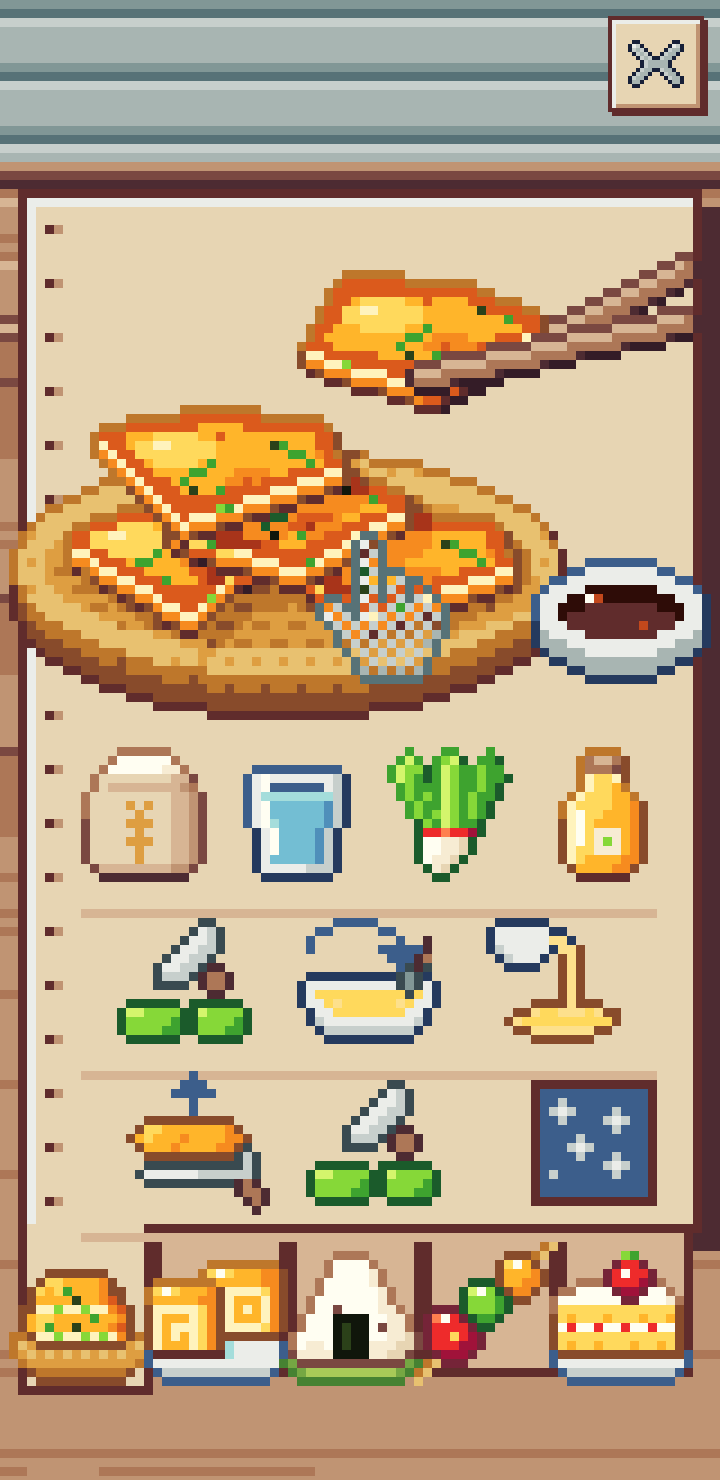
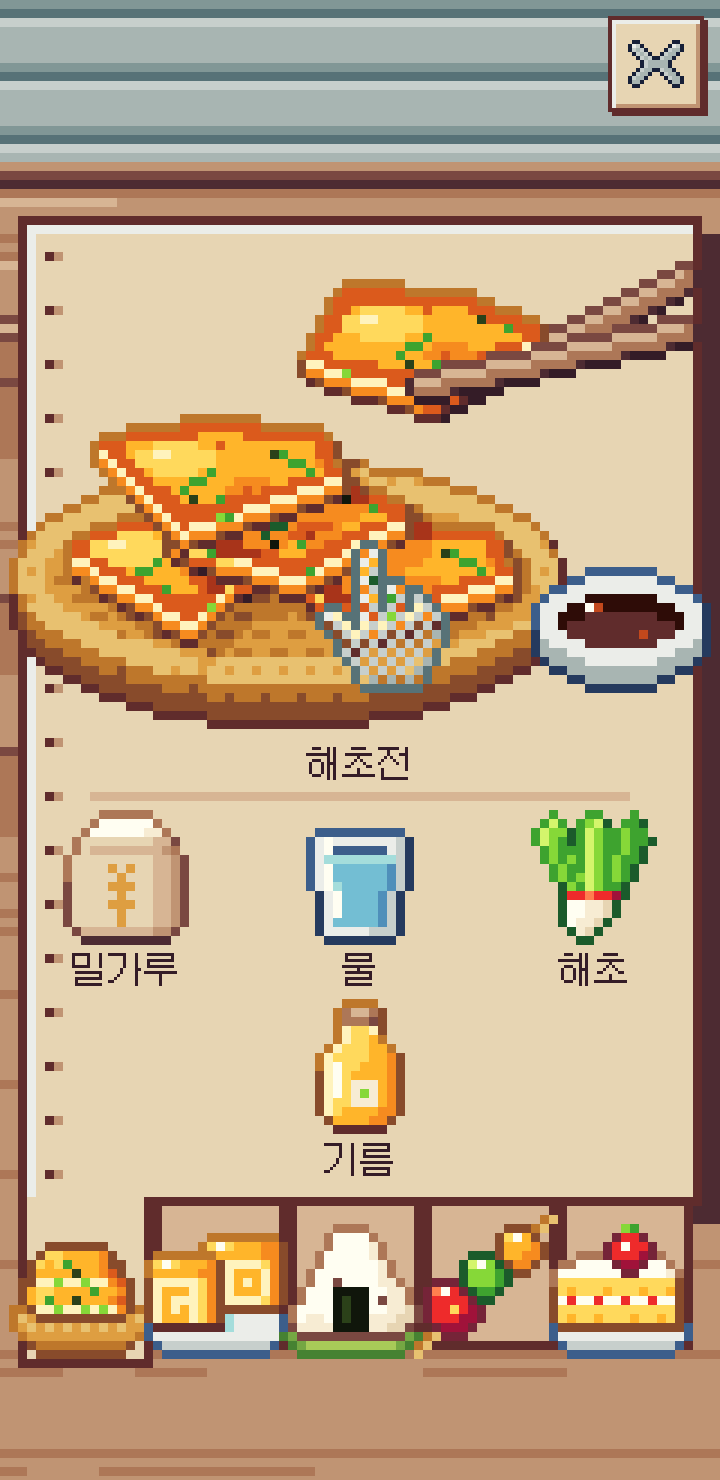
7차 다섯째 바퀴: 갈래 K — 요리 수첩에서 과정 (젓기 · 깨기 같은 단계 그림 · 순서 · 그날 효과 그림) 을 빼고 완성 그림 · 이름 · 재료만 (f88cabb)
주인 11-24: "레시피 북도 막 젓고 깨고 이런 과정은 싹 다 날리고 재료만 남겨줘". 재료는 그림 + 이름 (셋씩 한 줄, 개수가 있으면 개수). 잠긴 쪽 (카페 선물) 은 실루엣 · 잔 · 이름만. 요리가 시작되면 글은 사라져 요리 화면은 그대로 글 없음.
test-cook-steps 196 · test-cook 278 · test-cook-dishes 106 · test-cook-book-live 175.

Claude-Session: https://claude.ai/code/session_01Tq2y4UPNUfNv1Bsd1UKef2

diff --git a/tools/test-cook-book-live.js b/tools/test-cook-book-live.js
@@ -1,7 +1,8 @@
 #!/usr/bin/env node
 /* tools/test-cook-book-live.js -- round 7 (11-21): the recipe book, the five book dishes and the end buttons in a real
  * browser (Playwright, Chromium).   NODE_PATH=$(npm root -g) node tools/test-cook-book-live.js
- * B1 the book is the first screen: zero visible characters, names in aria-labels, no run and no pot yet; tabs, arrow
+ * B1 the book is the first screen: 11-24 r5 the page shows only the dish, its name and its ingredients (words in
+ *    .ck-bk-words, nothing else visible), names in aria-labels, no run and no pot yet; tabs, arrow
  *    keys and a sideways drag turn the page; the first-time hand shows once.
  * B2 locked dishes (a host with no ctx: the three free ones): a touch only shakes; setCtx; standalone = all open.
  * B3 touching the dish picture starts it; a pot with a finished step skips the book on the next open, an empty pot does not;
@@ -23,7 +24,7 @@ function js(o) { return JSON.stringify(o); }
 var NEW = ['jeon2', 'gyeran', 'jumeokbap2', 'kkochi2', 'cake'];
 var NAMES = { jeon2: '해초전', gyeran: '계란말이', jumeokbap2: '주먹밥', kkochi2: '과일 꼬치', cake: '딸기 케이크' };
 var REC = function () {   /* every frame: what shows, and whether the dialog has any visible character or a title */
-  window.__bk = { rows: [], txt: 0, titles: 0, err: 0, res: [], serve: [], close: [] };
+  window.__bk = { rows: [], txt: 0, titles: 0, err: 0, res: [], serve: [], close: [], wordsOff: 0 };
   window.AUDIO = { on: function () {}, init: function () {} };
   function tick() {
     try {
@@ -31,6 +32,8 @@ var REC = function () {   /* every frame: what shows, and whether the dialog has
         var l = COOK.live(), d = document.getElementById('cook-dlg');
         if (d && d.open) {
           var c = d.cloneNode(true), s = c.querySelector('.ck-say'); if (s) s.remove();
+          /* 11-24 r5: the book page's words (the dish's name, its ingredients) are the one place with text: counted apart */
+          var bw = c.querySelector('.ck-bk-words'); if (bw) { if (bw.textContent && l.screen !== 'book') window.__bk.wordsOff++; bw.remove(); }
           if ((c.textContent || '').replace(/\s+/g, '')) window.__bk.txt++;
           window.__bk.titles += d.querySelectorAll('[title]').length;
         }
@@ -114,10 +117,18 @@ async function gesture(page) {
       return { label: d.getAttribute('aria-label'), tabs: tabs.map(function (t) { return [t.getAttribute('aria-label'), t.getAttribute('aria-pressed'), box(t)]; }), go: [go.getAttribute('aria-label'), box(go)],
         verbHidden: d.querySelector('.ck-verb').hidden, endHidden: d.querySelector('.ck-call').hidden && d.querySelector('.ck-table').hidden, strip: !!d.querySelector('.ck-strip'), cols: Object.keys(cols).length, closeLabel: d.querySelector('.ck-close').getAttribute('aria-label') };
     });
-    check(r.label === '요리 수첩' && js(r.tabs.map(function (t) { return t[0]; })) === js(NEW.map(function (id) { return NAMES[id]; })) && r.go[0] === '해초전' && r.closeLabel === '닫기', 'B1 names live in aria-labels (요리 수첩, the five dishes, 닫기)');
+    check(r.label === '요리 수첩' && js(r.tabs.map(function (t) { return t[0]; })) === js(NEW.map(function (id) { return NAMES[id]; })) && r.go[0].indexOf('해초전') === 0 && r.closeLabel === '닫기', 'B1 names live in aria-labels (요리 수첩, the five dishes, 닫기)');
     check(r.tabs[0][1] === 'true' && r.tabs[1][1] === 'false', 'B1 the shown dish\'s tab is pressed');
     check(r.verbHidden && r.endHidden && !r.strip, 'B1 no chip, no end buttons, no step strip');
     check(r.cols > 12, 'B1 the page is painted (' + r.cols + ' colours sampled)');
+    var WORDS7 = { jeon2: ['해초전', '밀가루', '물', '해초', '기름'], gyeran: ['계란말이', '달걀 3개', '소금', '기름'], cake: ['딸기 케이크'] };
+    var ww = await T.page.evaluate(function () { return [].map.call(document.querySelectorAll('.ck-bk-w'), function (e) { var q = e.getBoundingClientRect(); return [e.textContent, q.left, q.top, q.width, q.height, e.closest('[aria-hidden]') ? 1 : 0]; }); });
+    check(js(ww.map(function (x) { return x[0]; })) === js(WORDS7.jeon2), 'B1 r5: the first page shows the dish name and its ingredients only (' + ww.map(function (x) { return x[0]; }).join(' · ') + ')');
+    check(ww.every(function (x) { return x[5] === 1 && x[1] >= 0 && x[1] + x[3] <= 360 && x[4] > 0; }), 'B1 r5: the words are aria-hidden (the dish button says them) and on screen');
+    var lab = await T.page.evaluate(function () { return document.querySelector('.ck-bk-go').getAttribute('aria-label'); });
+    check(lab === '해초전. 밀가루, 물, 해초, 기름', 'B1 r5: the dish button reads the name and the ingredients (' + lab + ')');
+    var tabTop = await T.page.evaluate(function () { return document.querySelector('.ck-bk-tab').getBoundingClientRect().top; });
+    check(ww.every(function (x) { return x[2] + x[4] <= tabTop + 0.5; }), 'B1 r5: every word ends above the bookmark tabs');
     check(r.tabs.every(function (t) { return t[2][2] >= 44 && t[2][3] >= 44 && t[2][0] >= 0 && t[2][0] + t[2][2] <= 360; }) && r.go[1][2] >= 200 && r.go[1][3] >= 150, 'B1 touch boxes: tabs at least 44 px, the dish picture large');
     check(l.hint === 'book', 'B1 the first-time hand is on the dish picture');
     await T.page.mouse.click(r.tabs[2][2][0] + 30, r.tabs[2][2][1] + 30);
@@ -130,7 +141,7 @@ async function gesture(page) {
     await T.page.mouse.move(120, 300); await T.page.mouse.down(); await T.page.mouse.move(250, 300); await T.page.mouse.up();
     await T.page.mouse.move(120, 300); await T.page.mouse.down(); await T.page.mouse.move(250, 300); await T.page.mouse.up();
     l = await live(T.page); check(l.book.id === 'jeon2', 'B1 drags to the right stop at the first dish');
-    s = await bk(T.page); check(s.txt === 0 && s.titles === 0 && s.err === 0, 'B1 zero visible characters and no title on every frame of the book');
+    s = await bk(T.page); check(s.txt === 0 && s.titles === 0 && s.err === 0 && s.wordsOff === 0, 'B1 nothing visible but the page\'s words, and no title, on every frame of the book');
     await T.page.keyboard.press('Escape'); await T.page.waitForTimeout(100);
     l = await live(T.page); check(l.screen === 'closed', 'B1 Escape closes the book');
     check(T.errs.length === 0, 'B1 no console errors ' + js(T.errs));
@@ -204,7 +215,7 @@ async function gesture(page) {
       await T.page.waitForFunction(function () { var q = COOK.live(); return q.screen === 'reveal' && q.chip && !q.slide; }, null, { timeout: 8000 }).catch(function () {});
       l = await live(T.page); s = await bk(T.page); var st2 = await store(T.page);
       check(l.screen === 'reveal' && l.done && l.end.table && l.end.call, 'B4 ' + id + ': the plate with both end buttons');
-      check(s.txt === 0 && s.titles === 0 && s.err === 0, 'B4 ' + id + ': zero visible characters on every frame');
+      check(s.txt === 0 && s.titles === 0 && s.err === 0 && s.wordsOff === 0, 'B4 ' + id + ': zero visible characters on every cooking frame (the book\'s words are gone once a dish starts)');
       check(s.res.length === 1 && st2.pot === null && st2.book[0].recipe === id && st2.book[0].look.v === 2, 'B4 ' + id + ': one result, the pot cleared, a notebook line with a v 2 look');
       check(s.rows.filter(function (x) { return />/.test(x); }).length >= 1 && l.stats.slides >= 2, 'B4 ' + id + ': stations slide (' + l.stats.slides + ' slides)');
       check(l.err === 0 && T.errs.length === 0, 'B4 ' + id + ': no errors ' + js(T.errs));
@@ -220,7 +231,7 @@ async function gesture(page) {
       r = await T.page.evaluate(function () { var g = document.querySelector('.ck-bk-go'); g.focus(); return g.getAttribute('aria-label'); });
       await T.page.keyboard.press('Enter');
       l = await live(T.page);
-      check(r === NAMES[NEW[di]] && l.screen === 'step' && l.recipe === NEW[di], 'B5 ' + NEW[di] + ': arrows and Enter on the dish picture start it');
+      check(typeof r === 'string' && r.indexOf(NAMES[NEW[di]] + '. ') === 0 && l.screen === 'step' && l.recipe === NEW[di], 'B5 ' + NEW[di] + ': arrows and Enter on the dish picture start it');
       check(await T.page.evaluate(function () { return document.activeElement === document.querySelector('.ck-verb') && document.getElementById('cook-dlg').classList.contains('ck-kbd'); }), 'B5 ' + NEW[di] + ': by key the chip has the focus and rings show');
       var labels = {};
       for (k = 0; k < 60; k++) {

diff --git a/js/cook-steps-art.js b/js/cook-steps-art.js
@@ -354,15 +354,19 @@
   var END_KEY = { o: C.w0, C: CORAL, k: C.w0, f: C.r1, F: C.a2, h: C.a3, w: C.s3, P: C.s6, t: C.w1, T: C.w3, s: C.w1, S: C.w4 };
   function endIcon(name) { var b = A.blank(20, 20); grid(b, END[name] || END.table, END_KEY, 0, 0); return b; }
 
-  /* ---------- the recipe book ---------- */
-  var TAB_W = 15, TAB_H = 19, PAGE_H = 98, PAGE_MID = 104, PAGE_TALL = 116;   /* mid, tall: the step pictograms get two rows (no overlap); tall has air between the rows */
-  /* where the page sits in a view W wide with rows top..bot free: { x0, y0, w, tabs: [[x, y, w, h]...], go: [x, y, w, h] } */
+  /* ---------- the recipe book ----------
+     11-24 r5 (owner: drop the cooking steps from the book and keep the ingredients; pictures and words were too dense): one dish a page:
+     the finished dish, its name, its ingredients (picture with the name under it, three a row). No steps, no step pictures,
+     no day-effect picture. The words are not painted: book() returns where they go (L.words, art px of the view) and the
+     live half lays real text there. */
+  var TAB_W = 15, TAB_H = 19, PAGE_H = 110, CELL_W = 26, CELL_H = 21;
+  /* where the page sits in a view W wide with rows top..bot free: { x0, y0, w, h, tabs: [[x, y, w, h]...], go: [x, y, w, h], up } */
   function bookLay(Wv, top, bot, n) {
-    var room = bot - top, tall = room >= PAGE_TALL + TAB_H, mid = !tall && room >= PAGE_MID + TAB_H - 1, ph = tall ? PAGE_TALL : mid ? PAGE_MID : PAGE_H;
-    var total = ph + TAB_H, y0 = top + Math.max(0, (bot - top - total) >> 1), w = Math.min(Wv - 4, 84), x0 = (Wv - w) >> 1;
+    var room = bot - top, ph = Math.max(PAGE_H - 8, Math.min(PAGE_H, room - TAB_H + 1)), up = PAGE_H - ph;   /* a short screen lifts the dish a little */
+    var total = ph + TAB_H, y0 = top + Math.max(0, (room - total) >> 1), w = Math.min(Wv - 4, 84), x0 = (Wv - w) >> 1;
     var tw = n * TAB_W, tx = (Wv - tw) >> 1, tabs = [];
     for (var i = 0; i < n; i++) tabs.push([tx + i * TAB_W, y0 + ph - 1, TAB_W, TAB_H]);
-    return { x0: x0, y0: y0, w: w, h: ph, tall: tall, two: tall || mid, tabs: tabs, go: [x0 + 2, y0 + 2, w - 4, 56] };
+    return { x0: x0, y0: y0, w: w, h: ph, up: up, tabs: tabs, go: [x0 + 2, y0 + 2, w - 4, 52 - up] };
   }
   function paper(V, x0, y0, w, h) {
     rect(V, x0 + 2, y0 + 2, w, h, C.w1);                    /* its shadow on the counter */
@@ -370,15 +374,12 @@
     rect(V, x0 + 1, y0 + 1, w - 2, 1, C.s6); rect(V, x0 + 1, y0 + 1, 1, h - 2, C.s6);
     for (var y = y0 + 4; y < y0 + h - 2; y += 6) { put(V, x0 + 3, y, C.r0); put(V, x0 + 4, y, C.w4); }   /* the binding holes */
   }
-  function row(V, ids, x0, w, y, frameOf) {   /* small pictures in a row, spread over w */
-    var n = ids.length; if (!n) return;
-    var pitch = n > 1 ? Math.min(20, Math.floor((w - 16) / (n - 1))) : 0, x = x0 + ((w - (16 + pitch * (n - 1))) >> 1);
-    ids.forEach(function (id, i) { spr(V, id, frameOf ? frameOf(i) : 0, x + i * pitch + 8, y + 13); });
-  }
-  /* o = { ids, sel, locked: { id: true }, made: { id: true }, top, bot, open (0..3, 3 = open), dx (page nudge), f } */
+  /* o = { ids, sel, locked: { id: true }, made: { id: true }, top, bot, open (0..3, 3 = open), dx (page nudge), f } -> the layout,
+     with words: [{ k: 'name' | 'ing', i, x, y, w }] (x = left, y = top, w = box width; art px of V) once the page is open */
   function book(V, o) {
     var ids = o.ids || [], n = ids.length, L = bookLay(V.w, o.top | 0, o.bot | 0, n), id = ids[o.sel | 0], r = ST ? ST.recipe(id) : null;
     var open = o.open == null ? 3 : o.open | 0, x0 = L.x0 + (o.dx | 0), y0 = L.y0, w = L.w, cx = x0 + (w >> 1);
+    L.words = [];
     if (open <= 0) {   /* the closed cover */
       rect(V, x0 + 2, y0 + 2, w, L.h + 8, C.w0); rect(V, x0, y0, w, L.h + 8, C.w0); rect(V, x0 + 1, y0 + 1, w - 2, L.h + 6, C.r1);
       rect(V, x0 + 1, y0 + 1, 5, L.h + 6, C.r0); rect(V, x0 + 8, y0 + 6, w - 14, 1, C.a1); rect(V, x0 + 8, y0 + L.h, w - 14, 1, C.a1);
@@ -394,28 +395,25 @@
       if (o.made && o.made[ids[i]] && !lock) { rect(V, x + t[2] - 5, y + 2, 3, 3, RED); put(V, x + t[2] - 4, y + 3, ROSE); }   /* made before: a small red seal on its tab */
     });
     if (open === 2 || !r) return L;
-    var locked = !!(o.locked && o.locked[id]), two = L.two, pack = two && !L.tall, dy = y0 + (pack ? 1 : 2);
-    var yD = dy + (pack ? 44 : 46), yI = dy + (pack ? 55 : 60), yS = dy + (pack ? 71 : 78), gap = pack ? 16 : 18;
-    if (!pack) for (var ly = dy + 62; ly < y0 + L.h - 3; ly += 18) rect(V, x0 + 7, ly + 16, w - 12, 1, C.w5);   /* ruled lines under the rows */
-    if (locked) {
+    var locked = !!(o.locked && o.locked[id]), dy = y0 + 2 - L.up, yD = dy + 44, yN = dy + 57, yG = dy + 64;   /* the last label ends near dy + 106, above the tabs */
+    if (locked) {   /* a gift from the cafe: the dish as a dark shape with a small cup, and its name */
       silhouette(V, DISH[id], 0, cx, yD, C.w4);
-      rect(V, cx - 10, dy + 18, 20, 20, C.r0); rect(V, cx - 9, dy + 19, 18, 18, C.w6); spr(V, 'lock.cup', 0, cx, dy + 33);
+      rect(V, cx - 10, dy + 16, 20, 20, C.r0); rect(V, cx - 9, dy + 17, 18, 18, C.w6); spr(V, 'lock.cup', 0, cx, dy + 31);
+      L.words.push({ k: 'name', i: 0, x: x0 + 4, y: yN, w: w - 8 });
       return L;
     }
     spr(V, DISH[id], id === 'jeon2' ? 1 : 0, cx, yD);
-    var ings = (r.ings || []).map(function (k) { return 'ing.' + k; }), pics = r.steps.map(function (s) { return s.pic; });
-    if (two) {   /* two rows of steps in reading order; the day effect closes the second row */
-      var n1 = (pics.length + 1) >> 1;
-      row(V, ings, x0 + 5, w - 7, yI);
-      row(V, pics.slice(0, n1), x0 + 6, w - 10, yS);
-      row(V, pics.slice(n1), x0 + 6, w - 28, yS + gap);
-      fxPic(V, r.fx, x0 + w - 18, yS + gap + 2);
-    } else {
-      row(V, ings, x0 + 6, w - 26, yI); fxPic(V, r.fx, x0 + w - 17, yI + 2);
-      row(V, pics, x0 + 6, w - 10, yS);
-    }
+    L.words.push({ k: 'name', i: 0, x: x0 + 4, y: yN, w: w - 8 });
+    rect(V, x0 + 8, yG - 2, w - 16, 1, C.w5);   /* a thin rule between the name and the ingredients */
+    var ings = r.ings || [], per = 3;
+    ings.forEach(function (k, i) {
+      var rowN = Math.floor(i / per), inRow = Math.min(per, ings.length - rowN * per), col = i % per;
+      var left = cx - ((inRow * CELL_W) >> 1) + col * CELL_W, top = yG + rowN * CELL_H;
+      spr(V, 'ing.' + k, 0, left + (CELL_W >> 1), top + 13);
+      L.words.push({ k: 'ing', i: i, x: left, y: top + 16, w: CELL_W });
+    });
     return L;
   }
 
-  A.steps = { spr: spr, sprOf: sprOf, book: book, bookLay: bookLay, endIcon: endIcon, hand2: hand2, SIZE: SIZE, DISH: DISH, ICON: ICON, painter: P, fxPic: fxPic };
+  A.steps = { spr: spr, sprOf: sprOf, book: book, bookLay: bookLay, endIcon: endIcon, hand2: hand2, SIZE: SIZE, DISH: DISH, ICON: ICON, painter: P, fxPic: fxPic, CELL: [CELL_W, CELL_H] };
 })();

diff --git a/js/cook.js b/js/cook.js
@@ -1639,7 +1639,8 @@ var COOK = (function () {
     B.lay = lay;
     function box(b, r) { b.style.left = (r[0] * css) + 'px'; b.style.top = (r[1] * css) + 'px'; b.style.width = (r[2] * css) + 'px'; b.style.height = (r[3] * css) + 'px'; }
     box(D.bkGo, lay.go);
-    D.bkGo.setAttribute('aria-label', WORDS.dish[id] || '');
+    var pw = EXT && EXT.pageWords ? EXT.pageWords(id) : null;   /* 11-24 r5: the dish and its ingredients, as the page shows them */
+    D.bkGo.setAttribute('aria-label', pw && !B.locked[id] ? pw.name + '. ' + pw.ings.join(', ') : WORDS.dish[id] || '');
     if (B.locked[id]) D.bkGo.setAttribute('aria-disabled', 'true'); else D.bkGo.removeAttribute('aria-disabled');
     D.bkTabs.forEach(function (b, i) { if (i < lay.tabs.length) { box(b, lay.tabs[i]); b.setAttribute('aria-pressed', i === B.sel ? 'true' : 'false'); } });
     L.dirty = true;
@@ -1662,7 +1663,7 @@ var COOK = (function () {
     if (B.locked[id] || !recipe(id)) { B.shakeAt = L.lastT; L.dirty = true; return; }
     if (e && e.detail === 0) setKbd(true);
     markSeen('book');
-    L.recipe = id; L.hint = null; D.bk.hidden = true;
+    L.recipe = id; L.hint = null; D.bk.hidden = true; bookWordsOff();
     var keep = L.book; L.book = null;
     if (!begin(false)) { L.book = keep; L.screen = 'book'; L.run = null; D.bk.hidden = false; bookSync(); }
   }
@@ -1684,11 +1685,33 @@ var COOK = (function () {
     var B = L.book, A = art(), fr = bookFrame(t);
     V.d.set(bgFor('counter', L.ox, L.oy).d);
     B.lay = A.steps.book(V, { ids: B.ids, sel: B.sel, locked: B.locked, made: B.made, top: bookTop(), bot: bookBot(), open: fr.open, dx: fr.dx, f: Math.floor(t / FMS) });
+    bookWords(B.lay && B.lay.words, B.ids[B.sel]);
     if (L.hint && fr.open >= 3) {
       var h = L.hint, o = {}; for (var k in h.spec) o[k] = h.spec[k];
       o.f = L.reduced ? 0 : Math.floor((t - h.at) / FMS) % 4; o.still = L.reduced;
       A.hand(V, o);
     }
+  }
+  /* 11-24 r5: the page's words (the dish's name, its ingredients' names) as real text over the painted page. The book is the
+     one kitchen screen with words (the owner asked for names); screen readers hear them on the dish button, so these are
+     aria-hidden. Each line starts on a whole device px (as cook.html's own words do) */
+  function bookWordsOff() { if (D && D.bkWords) { D.bkWords.textContent = ''; D.bkWords.ckKey = ''; } }   /* no words outside the book */
+  function bookWords(list, id) {
+    var pw = EXT && EXT.pageWords ? EXT.pageWords(id) : null, key = pw && list && list.length ? id + '|' + L.css + '|' + JSON.stringify(list) : '';
+    if (D.bkWords.ckKey === key) return;
+    D.bkWords.ckKey = key; D.bkWords.textContent = '';
+    if (!key) return;
+    var css = L.css, dpr = L.dpr || 1;
+    list.forEach(function (w) {
+      var text = w.k === 'name' ? pw.name : pw.ings[w.i]; if (!text) return;
+      var sp = el('span', { class: 'ck-bk-w ck-bk-' + w.k, text: text });
+      sp.style.left = (Math.round(w.x * css * dpr) / dpr) + 'px'; sp.style.top = (Math.round(w.y * css * dpr) / dpr) + 'px'; sp.style.width = (Math.round(w.w * css * dpr) / dpr) + 'px';
+      D.bkWords.appendChild(sp);
+    });
+    Array.prototype.forEach.call(D.bkWords.children, function (sp) {   /* centred text: move the glyph run onto the device grid */
+      try { var r = document.createRange(); r.selectNodeContents(sp); var b = r.getBoundingClientRect();
+        if (b.width) sp.style.translate = ((Math.round(b.left * dpr) - b.left * dpr) / dpr) + 'px ' + ((Math.round(b.top * dpr) - b.top * dpr) / dpr) + 'px'; } catch (e) { /* a soft edge at worst */ }
+    });
   }
   function bookDown(e) {
     if (!L || L.screen !== 'book' || !L.book) return;
@@ -1984,7 +2007,8 @@ var COOK = (function () {
     d.bkGo = el('button', { type: 'button', class: 'ck-bk-go', 'aria-label': '' });
     d.bkTabs = [];
     for (var bi = 0; bi < bookIds().length; bi++) d.bkTabs.push(el('button', { type: 'button', class: 'ck-bk-tab', 'aria-label': '', 'aria-pressed': 'false' }));
-    d.bk = el('div', { class: 'ck-bk', hidden: '' }, d.bkTabs.concat([d.bkGo]));
+    d.bkWords = el('div', { class: 'ck-bk-words', 'aria-hidden': 'true' });   /* 11-24 r5: the page's words (bookWords) */
+    d.bk = el('div', { class: 'ck-bk', hidden: '' }, [d.bkWords].concat(d.bkTabs, [d.bkGo]));
     d.dlg = el('dialog', { class: 'ck-dlg', id: 'cook-dlg', 'aria-label': WORDS.dish.jeon }, [d.stage, d.hud, d.bk, d.verb, d.call, d.table, d.note, d.say, d.probe]);
     d.ctx = d.cv.getContext('2d');
     document.body.appendChild(d.dlg);
@@ -2050,7 +2074,7 @@ var COOK = (function () {
     var me = L, byKey = !!(me.closeKbd || kbd);
     settle0(me);
     L = null;
-    D.note.hidden = true; D.bk.hidden = true; D.call.hidden = true; D.table.hidden = true;
+    D.note.hidden = true; D.bk.hidden = true; bookWordsOff(); D.call.hidden = true; D.table.hidden = true;
     if (!me.after) {   /* focus back to the opener, else the play-room door, else the main button (design 3.3) */
       var list = [me.opener, document.getElementById('btn-play-door'), document.getElementById('btn-go')];
       for (var i = 0; i < list.length; i++) if (shownEl(list[i])) { focusEl(list[i]); break; }
@@ -2091,7 +2115,7 @@ var COOK = (function () {
         k: 1, css: 1, dpr: 1, W: 0, H: 0, ox: 0, oy: 0, stride: 8, hudB: 0, chipTop: 0, safe: [0, 0, 0, 0], vw: 0, vh: 0 };
       if (L.palette && /^[a-z0-9-]+$/.test(L.palette)) D.dlg.setAttribute('data-palette', L.palette); else D.dlg.removeAttribute('data-palette');
       D.note.hidden = true; D.say.textContent = ''; D.closeCv.ckIcon = iconOf('close'); D.closeCv.ckN = 0;
-      D.verbCv.ckName = null; D.bk.hidden = true; D.call.hidden = true; D.table.hidden = true;
+      D.verbCv.ckName = null; D.bk.hidden = true; bookWordsOff(); D.call.hidden = true; D.table.hidden = true;
       if (art().steps) { D.callCv.ckIcon = art().steps.endIcon('call'); D.tableCv.ckIcon = art().steps.endIcon('table'); D.callCv.ckN = 0; D.tableCv.ckN = 0; }
       document.documentElement.classList.add('ck-open');
       setKbd(typeof opts.kbd === 'boolean' ? opts.kbd : kbd);   /* the host's own last input (cook.html in the game), else ours */

diff --git a/js/cook-steps.js b/js/cook-steps.js
@@ -9,7 +9,8 @@
  * UNITS as in js/cook.js: step data is in art px on the 144 x 160 stage (food centre 72, 86); step state and pointer
  * samples are logical px (art x 2); time is integer ms on the step clock; looks are small integers.
  *
- * RECIPE  { id, v2: true, tier, at, ings: [ing ids], fx (the day effect's name, for the book page), steps: [...] }
+ * RECIPE  { id, v2: true, tier, at, ings: [ing ids], count ({ ing: n } where the book shows how many), fx (the day effect's name),
+ *   steps: [...] }
  *   v2 = looks are kept per step: COOK.lookOf(run) = { v: 2, s: [look per step], plate, band? } (band = the last flip or
  *   bake band, for the dish picture). A legacy recipe keeps its flat look.
  * STEP    { kind, station ('counter' | 'stove' | 'board'), name (WORDS.verb key: the button's aria-label), pic (the
@@ -55,7 +56,11 @@ var COOK_STEPS = (function () {
     verb: { chop: '썰기', stir: '젓기', pour: '붓기', flip: '뒤집기', heat: '불 켜기', crack: '달걀 깨기', roll: '말기', scoop: '밥 담기',
       sprinkle: '깨 뿌리기', press: '모양 잡기', wrap: '김 붙이기', wash: '씻기', thread: '꼬치에 끼우기', glaze: '시럽 입히기',
       bake: '굽기', out: '꺼내기', spread: '크림 바르기', top: '딸기 올리기' },
-    book: '요리 수첩', call: '문어 부르기', table: '식탁에 두기'
+    book: '요리 수첩', call: '문어 부르기', table: '식탁에 두기',
+    /* 11-24 r5 (owner: drop every cooking step from the recipe book, keep only the ingredients): their names on the page */
+    ing: { flour: '밀가루', water: '물', greens: '해초', oil: '기름', egg: '달걀', salt: '소금', rice: '밥', sesame: '깨', gim: '김',
+      berry: '딸기', grape: '청포도', tang: '귤', sugar: '설탕', cream: '생크림' },
+    count: '개'
   });
 
   var BOX = { cx: 72, cy: 86, w: 64, h: 48, rx: [29], ry: [19], inset: 3 };   /* the legacy food box (stage centre) */
@@ -75,7 +80,7 @@ var COOK_STEPS = (function () {
       { kind: 'pour', station: 'stove', name: 'pour', pic: 'step.pour', box: box({}), art: { type: 'pour', pan: 'round', spr: 'jeon.pan', at: [72, 86], frames: [-1, 0, 1, 2], rest: 2 } },
       { kind: 'flip', band: 3000, station: 'stove', name: 'flip', pic: 'step.flip', box: box({}), art: { type: 'flip', pan: 'round', spr: 'jeon.pan', at: [72, 86], bands: [2, 3, 4] } },
       { kind: 'slice', lines: 2, cross: true, station: 'board', name: 'chop', pic: 'step.slice', box: box({}), art: { type: 'cross', spr: 'jeon.pan', at: [72, 86], bands: [2, 3, 4] } }] },
-    { id: 'gyeran', v2: true, tier: 1, at: 'pan', fx: 'bubble', ings: ['egg', 'salt', 'oil'], steps: [
+    { id: 'gyeran', v2: true, tier: 1, at: 'pan', fx: 'bubble', ings: ['egg', 'salt', 'oil'], count: { egg: 3 }, steps: [
       crack('mix.egg'),
       stir(3, 'stir', 'step.stir', { type: 'bowl', bowl: [72, 106], mix: 'mix.egg' }, 'counter', [72, 94]),
       { kind: 'pour', station: 'stove', name: 'pour', pic: 'step.pour', box: box({}), art: { type: 'pour', pan: 'square', spr: 'gyeran.pan', at: [72, 86], frames: [-1, 0, 1, 2], rest: 3 } },
@@ -95,7 +100,7 @@ var COOK_STEPS = (function () {
       { kind: 'drag', station: 'board', name: 'thread', pic: 'step.thread', box: box({}), items: [[48, 64], [72, 60], [96, 64]], slots: [[82, 102], [94, 102], [106, 102]], order: true, zone: [30, 92, 114, 112],
         art: { type: 'thread', skewer: [72, 104], item: 'fruit.piece' } },
       stir(2, 'glaze', 'step.glaze', { type: 'glaze', pot: [72, 96], spr: 'kkochi.coat', at: [50, 80] }, 'stove', [72, 84])] },
-    { id: 'cake', v2: true, tier: 1, at: 'oven', fx: 'confetti', ings: ['egg', 'flour', 'sugar', 'cream', 'berry'], steps: [
+    { id: 'cake', v2: true, tier: 1, at: 'oven', fx: 'confetti', ings: ['egg', 'flour', 'sugar', 'cream', 'berry'], count: { egg: 3, berry: 3 }, steps: [
       crack('mix.cake'),
       stir(3, 'stir', 'step.stir', { type: 'bowl', bowl: [72, 106], mix: 'mix.cake' }, 'counter', [72, 94]),
       { kind: 'pour', station: 'counter', name: 'pour', pic: 'step.pour', box: box({}), art: { type: 'pour', pan: 'none', spr: 'tin', at: [72, 92], frames: [0, 1, 2, 3], rest: 3 } },
@@ -108,6 +113,11 @@ var COOK_STEPS = (function () {
   var NEXT = freeze({ jeon: 'jeon2', jumeokbap: 'jumeokbap2', kkochi: 'kkochi2' });
   var FREE = freeze(['jeon2', 'gyeran', 'jumeokbap2']);   /* the book's dishes that need no gift (contract C2) */
 
+  /* the words of the book page for one dish: { name, ings: [one per ingredient, with its count where given] } (null for an unknown id) */
+  function pageWords(id) {
+    var r = recipe(id); if (!r) return null;
+    return { name: WORDS.dish[id], ings: r.ings.map(function (k) { var n = r.count && r.count[k]; return WORDS.ing[k] + (n ? ' ' + n + WORDS.count : ''); }) };
+  }
   function recipe(id) { for (var i = 0; i < RECIPES.length; i++) if (RECIPES[i].id === id) return RECIPES[i]; return null; }
   /* what a pot of this recipe is hashed with: its steps and every number above */
   function tuneText(id) { var r = recipe(id); return r ? JSON.stringify(r.steps) + '|' + JSON.stringify(NUM) : null; }
@@ -441,7 +451,7 @@ var COOK_STEPS = (function () {
   }
 
   return { NUM: NUM, WORDS: WORDS, RECIPES: RECIPES, NEXT: NEXT, FREE: FREE, KINDS: ['stir', 'pour', 'drag', 'rub', 'swipe', 'bake'],
-    recipe: recipe, tuneText: tuneText, defaultLook: defaultLook, validLook: validLook, validTag: validTag, between: between,
+    recipe: recipe, pageWords: pageWords, tuneText: tuneText, defaultLook: defaultLook, validLook: validLook, validTag: validTag, between: between,
     verb: verb, hintAt: hintAt, install: install };
 })();
 if (typeof module !== 'undefined' && module.exports) module.exports = COOK_STEPS;

diff --git a/tools/test-cook-steps.js b/tools/test-cook-steps.js
@@ -245,6 +245,9 @@ section('words and static rules');
     check(!/title\s*[:=]/.test(src.replace(/titleMs/g, '')), f + ': no title attribute');
   });
   check(X.WORDS.call === '문어 부르기' && X.WORDS.table === '식탁에 두기' && X.WORDS.book === '요리 수첩', 'the end buttons\' and the book\'s names');
+  check(NEW.every(function (id) { var p = X.pageWords(id), r = X.recipe(id); return p && p.name === X.WORDS.dish[id] && p.ings.length === r.ings.length && p.ings.every(function (w) { return /^[가-힣 ]+( [0-9][가-힣])?$/.test(w) || /^[가-힣]+ [0-9]개$/.test(w); }); }),
+    'r5 the book page words: every dish has a name and one word per ingredient (count where given)');
+  check(js(X.pageWords('gyeran')) === js({ name: '계란말이', ings: ['달걀 3개', '소금', '기름'] }) && X.pageWords('nope') === null, 'r5 pageWords(gyeran) and an unknown id');
   var cs = fs.readFileSync(path.join(ROOT, 'js/cook.js'), 'utf8'), ch2 = fs.readFileSync(path.join(ROOT, 'cook.html'), 'utf8'), cc = fs.readFileSync(path.join(ROOT, 'css/cook.css'), 'utf8');
   check(cs.indexOf('ck-strip') < 0 && cc.indexOf('.ck-strip') < 0 && cc.indexOf('.ck-step') < 0 && cs.indexOf('buildStrip') < 0, 'the step strip is gone from js/cook.js and css/cook.css');
   check(cs.indexOf('function again') < 0, "the live half has no 'again'");

diff --git a/tools/cook-shots.js b/tools/cook-shots.js
@@ -448,7 +448,7 @@ async function setBook(browser) {
   await page.goto(COOK_URL + '?seed=' + SEED);
   function live() { return page.evaluate(function () { return COOK.live(); }); }
   async function snap(name, ok, why) {
-    var l = await live(), text = await page.evaluate(function () { var d = document.getElementById('cook-dlg'), c = d.cloneNode(true), q = c.querySelector('.ck-say'); if (q) q.remove(); return (c.textContent || '').replace(/\s+/g, ''); });
+    var l = await live(), text = await page.evaluate(function () { var d = document.getElementById('cook-dlg'), c = d.cloneNode(true), q = c.querySelector('.ck-say'); if (q) q.remove(); q = c.querySelector('.ck-bk-words'); if (q) q.remove(); return (c.textContent || '').replace(/\s+/g, ''); });
     if (!ok(l) || text !== '' || l.err || errs.length) { failed.push(name + ': ' + (why || 'state') + ' ' + js([l.screen, l.recipe, l.si, l.kind, text, errs])); console.error('  FAIL ' + name); return; }
     await page.evaluate(function () { return Promise.all([].map.call(document.querySelectorAll('.cook-sticker'), function (i) { return i.decode ? i.decode().catch(function () {}) : null; })); });
     await realWait(120);

diff --git a/css/cook.css b/css/cook.css
@@ -82,6 +82,11 @@ html.ck-open body { overscroll-behavior: none; }
    no picture of their own (keys and screen readers reach the book through them) */
 .ck-bk { position: absolute; inset: 0; pointer-events: none; }
 .ck-bk[hidden] { display: none; }
+/* 11-24 r5: the book page's words, the only words in the kitchen (the dish's name, its ingredients' names) */
+.ck-bk-words { position: absolute; inset: 0; pointer-events: none; }
+.ck-bk-w { position: absolute; display: block; margin: 0; padding: 0; text-align: center; white-space: nowrap; overflow: visible;
+  color: #341c27; font-family: var(--f-meta, 'Galmuri11', sans-serif); font-size: var(--fs-m16, 16px); line-height: 1; font-synthesis: none; }
+.ck-bk-name { font-family: var(--f-ui, 'Galmuri11', sans-serif); font-size: var(--fs-u20, 20px); }
 .ck-bk button { position: absolute; box-sizing: border-box; margin: 0; padding: 0; border: 0; border-radius: 0; background: transparent; box-shadow: none;
   pointer-events: auto; cursor: pointer; touch-action: none; -webkit-tap-highlight-color: transparent; -webkit-user-select: none; user-select: none; -webkit-touch-callout: none; }
 .ck-bk button[hidden] { display: none; }

diff --git a/docs/COOK_BOOK.md b/docs/COOK_BOOK.md
@@ -48,6 +48,7 @@
 
 ## 4. 화면
 
+- **11-24 다섯째 바퀴 (주인: "레시피 북도 막 젓고 깨고 이런 과정은 싹 다 날리고 재료만 남겨줘", "그림이랑 글이 너무 빼곡"):** 수첩 한 쪽에는 이제 완성 그림 · 요리 이름 · 재료 (그림 아래 이름, 개수가 있으면 '달걀 3개') 만 있다. 단계 그림문자와 하루 효과 그림은 뺐다. 부엌에서 글자가 보이는 곳은 수첩 쪽의 이 이름들뿐이고 (`.ck-bk-words`, 요리를 고르면 바로 지운다), 화면 낭독기는 요리 그림 단추에서 '해초전. 밀가루, 물, 해초, 기름' 처럼 듣는다. 잠긴 요리는 그림자 + 커피잔 + 이름만. 아래 줄의 '단계 그림문자' · '글자 · 숫자는 없다' 는 그 전 설명이다.
 - **수첩이 첫 화면.** 요리를 정해 주지 않았고 (`recipe` 없음) 끝낸 단계가 있는 냄비도 없으면 수첩이 펼쳐진다 (표지 → 펼침 3장면, 움직임 줄이기면 바로). 한 쪽에 요리 하나: 큰 완성 그림 · 재료 · 단계 그림문자 (두 줄) · 하루 효과. 글자 · 숫자는 없다 (이름은 `aria-label`, 대화상자는 '요리 수첩').
 - 넘기기: 옆으로 끌기 · 아래 책갈피 다섯 · 좌우 화살표 키. **요리 그림을 누르면 시작.** 잠긴 요리는 그림자 + 커피잔이고 누르면 살짝 흔들릴 뿐이다. 마지막에 만든 요리 쪽이 먼저 펼쳐진다.
 - 수첩은 캔버스에 그린다 (어느 배율에서도 또렷). 그 위에 보이지 않는 진짜 단추 여섯 (그림 하나 + 책갈피 다섯) 이 놓여 키보드와 화면 낭독기가 닿는다.
